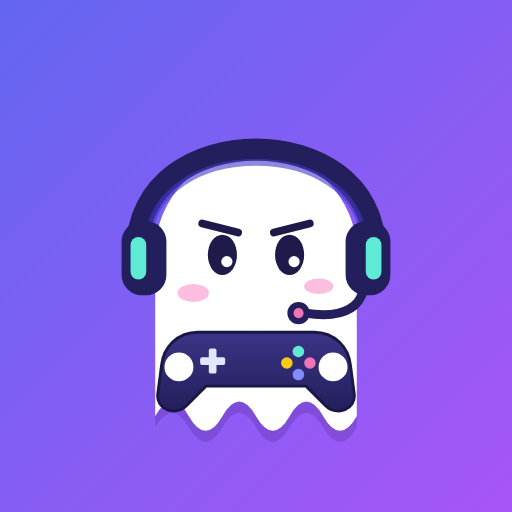
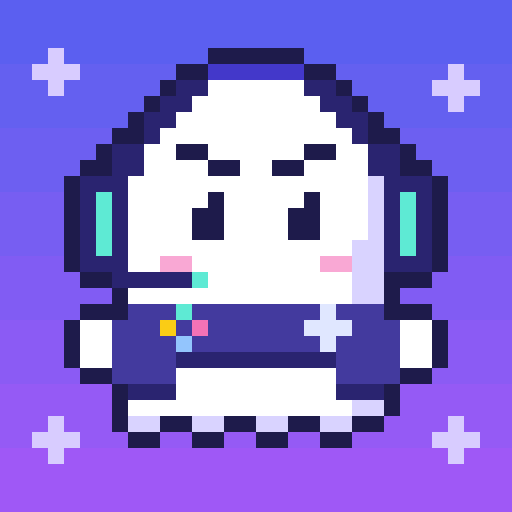
아이콘을 픽셀 그래픽으로 교체, 게임패드 방향 바로잡기
- icons/_make_icon.mjs: 32x32 픽셀 그림을 정수 배율 PNG로 직접 생성 (가장자리 선명)
- 십자키는 유령의 왼손, 버튼은 오른손 쪽으로 (보는 사람 기준 좌우 반전)
- 헤더 로고 image-rendering: pixelated
- 아이콘 주소 ?v=4, 서비스 워커 캐시 hub-v4

diff --git a/index.html b/index.html
@@ -14,9 +14,9 @@
 <meta name="mobile-web-app-capable" content="yes">
 <meta name="apple-mobile-web-app-status-bar-style" content="default">
 <meta name="apple-mobile-web-app-title" content="도구 모음">
-<link rel="apple-touch-icon" href="icons/icon-180.png?v=3">
-<link rel="icon" type="image/png" sizes="192x192" href="icons/icon-192.png?v=3">
-<link rel="manifest" href="manifest.webmanifest?v=3">
+<link rel="apple-touch-icon" href="icons/icon-180.png?v=4">
+<link rel="icon" type="image/png" sizes="192x192" href="icons/icon-192.png?v=4">
+<link rel="manifest" href="manifest.webmanifest?v=4">
 <style>
   :root {
     --bg: #f2f2f7;
@@ -57,7 +57,7 @@
   .date { font-size: 13px; font-weight: 600; color: var(--muted); text-transform: uppercase; letter-spacing: .04em; }
   .top { display: flex; align-items: center; justify-content: space-between; gap: 12px; }
   .brand { display: flex; align-items: center; gap: 12px; margin-top: 6px; min-width: 0; }
-  .logo { width: 40px; height: 40px; border-radius: 10px; flex: none; box-shadow: 0 2px 6px rgba(79,70,229,.3); }
+  .logo { width: 40px; height: 40px; border-radius: 10px; flex: none; image-rendering: pixelated; box-shadow: 0 2px 6px rgba(79,70,229,.3); }
   h1 { margin: 0; font-size: 30px; font-weight: 800; letter-spacing: -.02em; white-space: nowrap; overflow: hidden; text-overflow: ellipsis; }
   .actions { display: flex; gap: 8px; flex: none; white-space: nowrap; }
   .btn {
@@ -151,7 +151,7 @@
       </div>
     </div>
     <div class="brand">
-      <img class="logo" src="icons/icon-180.png?v=3" alt="" width="40" height="40">
+      <img class="logo" src="icons/icon-180.png?v=4" alt="" width="40" height="40">
       <h1 id="title">유령의 도구 모음</h1>
     </div>
   </header>

diff --git a/sw.js b/sw.js
@@ -1,6 +1,6 @@
 // Bump this when you change index.html so installed copies pick up the new version
-const CACHE = 'hub-v3';
-const ASSETS = ['./', 'index.html', 'manifest.webmanifest?v=3', 'apps.json', 'icons/icon-180.png?v=3', 'icons/icon-192.png?v=3', 'icons/icon-512.png?v=3'];
+const CACHE = 'hub-v4';
+const ASSETS = ['./', 'index.html', 'manifest.webmanifest?v=4', 'apps.json', 'icons/icon-180.png?v=4', 'icons/icon-192.png?v=4', 'icons/icon-512.png?v=4'];
 
 self.addEventListener('install', (e) => {
   e.waitUntil(caches.open(CACHE).then((c) => c.addAll(ASSETS)).then(() => self.skipWaiting()));
